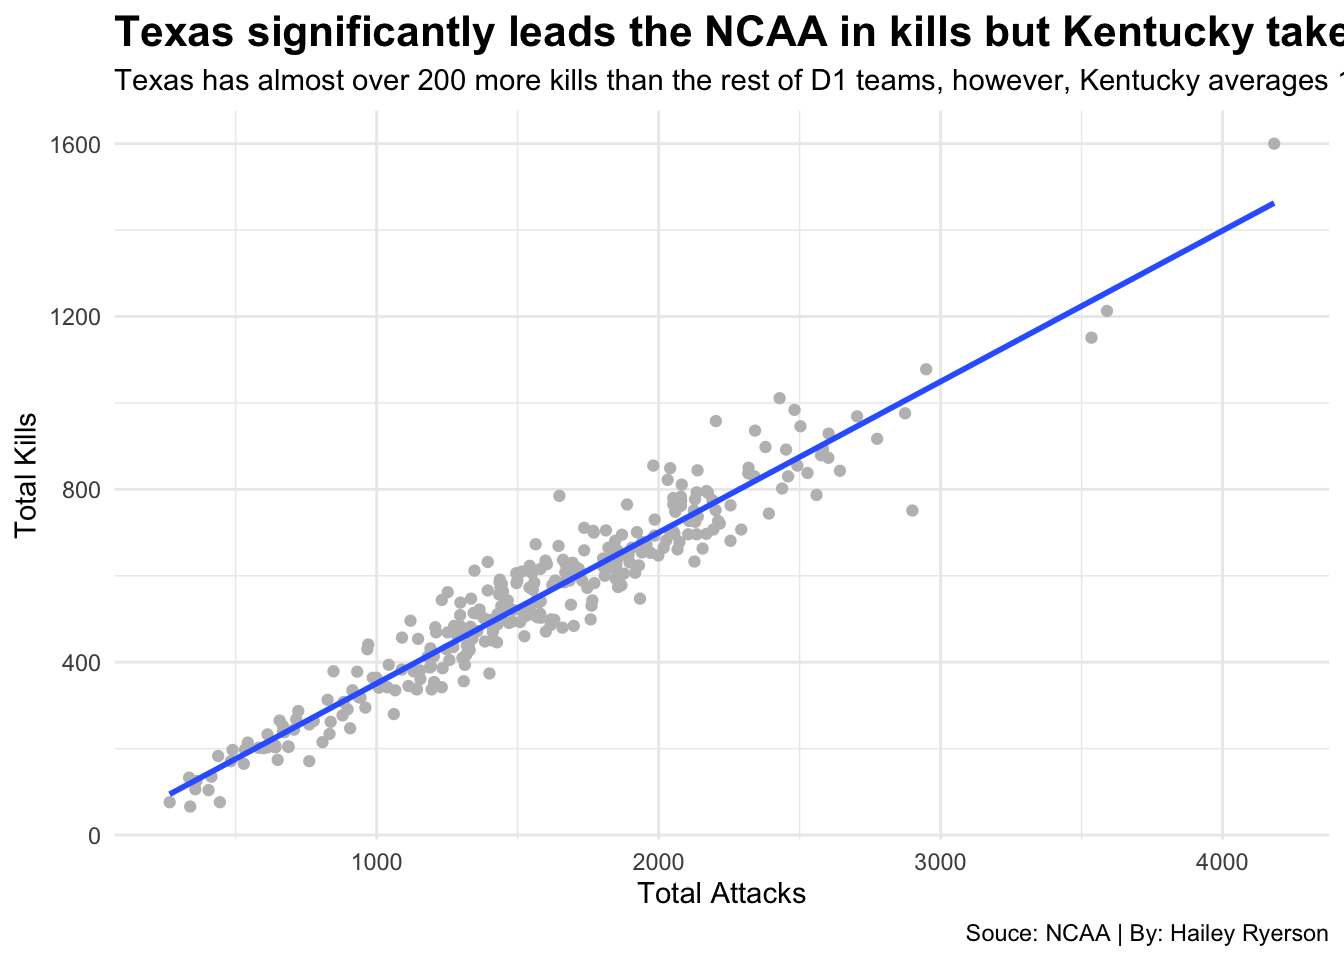
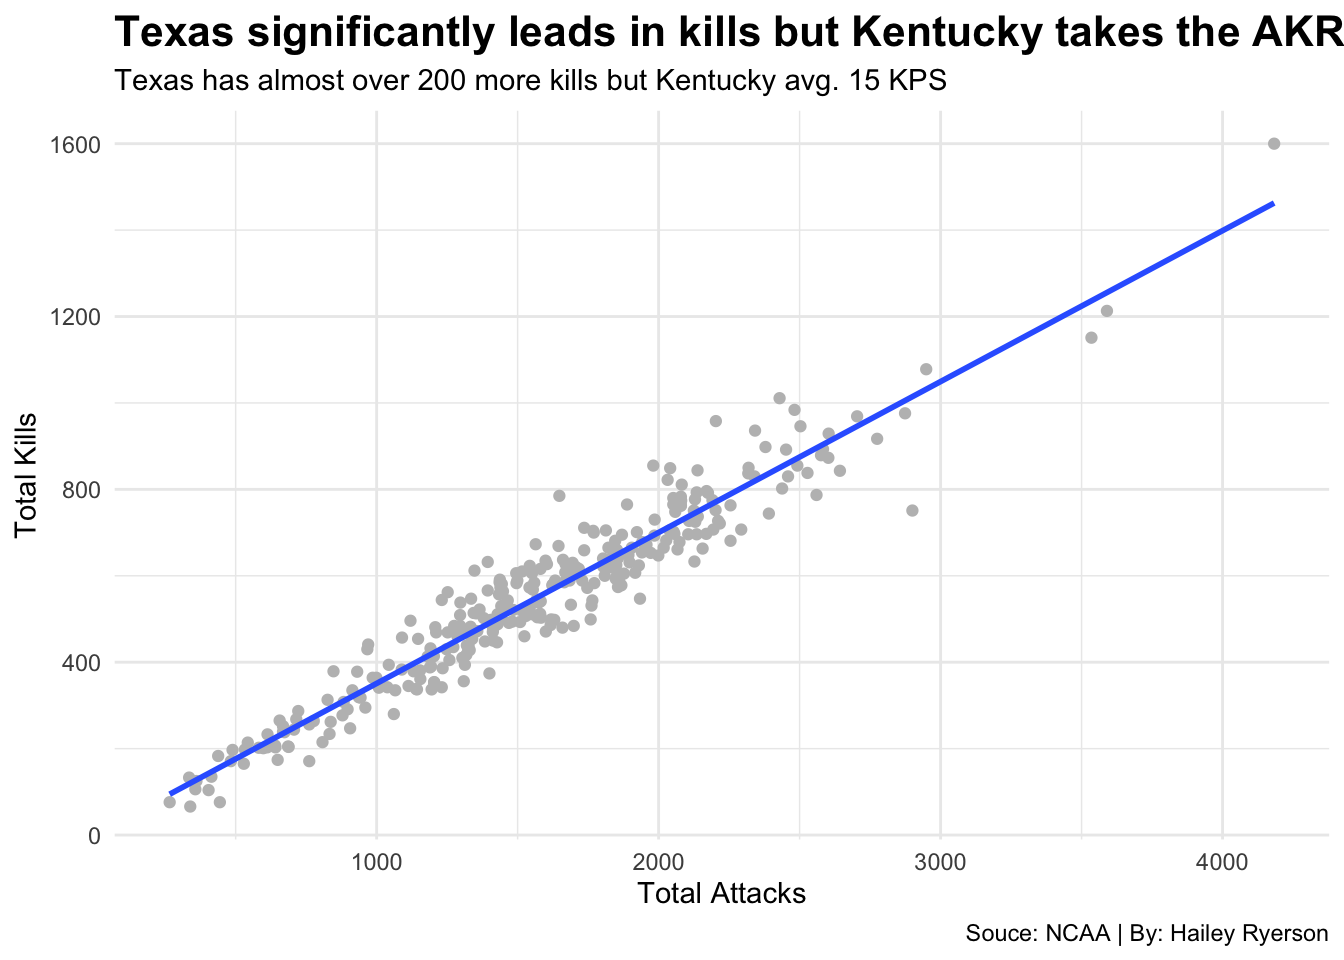
Updated charts 2

Changed region(s): [[0.4375, 0.0, 1.0, 0.0938]]

diff --git a/2021/04/01/hailey-ryerson-s-spmc-350-final-project/index.html b/2021/04/01/hailey-ryerson-s-spmc-350-final-project/index.html
@@ -153,7 +153,7 @@ AllD1Teams &lt;- AllD1Games %&gt;% group_by(Team) %&gt;%
   geom_point(color=&quot;grey&quot;) + 
   geom_smooth(method=lm, se=FALSE) +
   theme_light() +
-  labs(x=&quot;Total Attacks&quot;, y=&quot;Total Kills&quot;, title = &quot;Texas significantly leads the NCAA in kills but Kentucky takes the average kill rate&quot;, subtitle = &quot;Texas has almost over 200 more kills than the rest of D1 teams, however, Kentucky averages 15 kills per set with Alli Stumler and Avery Skinner behind it.&quot;, caption=&quot;Souce: NCAA | By: Hailey Ryerson&quot;) +
+  labs(x=&quot;Total Attacks&quot;, y=&quot;Total Kills&quot;, title = &quot;Texas significantly leads in kills but Kentucky takes the AKR&quot;, subtitle = &quot;Texas has almost over 200 more kills but Kentucky avg. 15 KPS&quot;, caption=&quot;Souce: NCAA | By: Hailey Ryerson&quot;) +
   theme_minimal() +
   theme(
     plot.title = element_text(size = 16, face = &quot;bold&quot;)
@@ -215,8 +215,17 @@ Top25Teams &lt;- Top25TeamGames %&gt;% group_by(Team) %&gt;%
   theme_light() +
   labs(x=&quot;Total team&quot;, y=&quot;Total Aces&quot;) + 
   coord_flip()</code></pre>
-<p><img src="http://haileyryerson.github.io/2021/04/01/hailey-ryerson-s-spmc-350-final-project/index_files/figure-html/unnamed-chunk-7-1.png" width="672" />
-I’m not surprised Texas takes the ace category, but now let’s look at the Top 5 teams in the nation.</p>
+<p><img src="http://haileyryerson.github.io/2021/04/01/hailey-ryerson-s-spmc-350-final-project/index_files/figure-html/unnamed-chunk-7-1.png" width="672" /></p>
+<pre class="r"><code>ggplot(Top25Teams, aes(x=reorder(Team,totalAces), weight=totalAces)) +
+  geom_bar() + 
+  theme_light() +
+  labs(x=&quot;Total team&quot;, y=&quot;Total Aces&quot;, title = &quot;Texas’s serving takes top spot in ace category&quot;, subtitle = &quot;Texas places 6th overall but leads in Top 25 from Logan Eggleston&quot;, caption=&quot;Souce: NCAA | By: Hailey Ryerson&quot;) +  
+  coord_flip() +
+   theme(
+    plot.title = element_text(size = 16, face = &quot;bold&quot;)
+    ) </code></pre>
+<p><img src="http://haileyryerson.github.io/2021/04/01/hailey-ryerson-s-spmc-350-final-project/index_files/figure-html/unnamed-chunk-8-1.png" width="672" /></p>
+<p>I’m not surprised Texas takes the ace category, but now let’s look at the Top 5 teams in the nation.</p>
 <pre class="r"><code>top5TeamNames &lt;- read.csv(&quot;top5-teams.csv&quot;)
 
 Top5TeamGames &lt;- AllD1Games %&gt;% filter(Team %in% top5TeamNames$Team)
